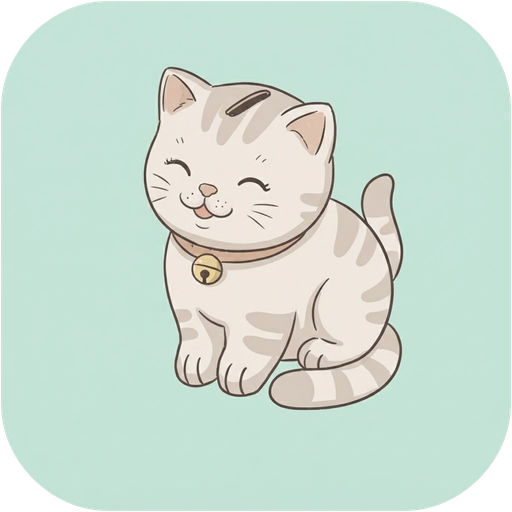
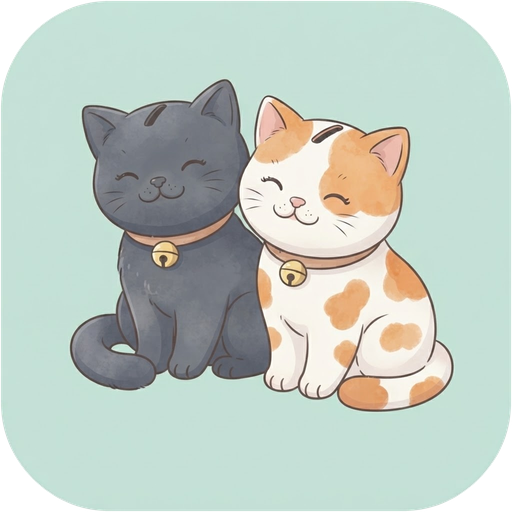
Nuova icona: due gattini (palette invariata)
Claude-Session: https://claude.ai/code/session_01VsjeD3hYDfXAMYg7o4aXLh

diff --git a/public/sw.js b/public/sw.js
@@ -1,6 +1,6 @@
 // Service worker minimale: guscio dell'app disponibile offline.
 // Le chiamate cross-origin (Google Drive / Identity) non vengono MAI intercettate né messe in cache.
-const CACHE = 'moneyduo-shell-v4'
+const CACHE = 'moneyduo-shell-v5'
 
 self.addEventListener('install', (e) => {
   e.waitUntil(caches.open(CACHE).then((c) => c.addAll(['./', './manifest.webmanifest', './icon-192.png'])))

diff --git a/README.md b/README.md
@@ -93,7 +93,7 @@ La notifica push parte **dopo che i dati sono arrivati su Drive** (anche per le 
 **Rimborsi con PayPal.** Ogni membro può indicare il proprio nome **PayPal.Me** (Impostazioni → Famiglia → «Il tuo PayPal»; basta anche incollare il link `paypal.me/…`). Nelle Statistiche, accanto a «Rimborsa», un debito verso chi ha collegato PayPal mostra il pulsante **PayPal**: apre `paypal.me/<nome>/<importo>EUR` con l'importo già impostato e, nell'app, il rimborso già compilato da salvare. Il nome PayPal.Me è visibile a tutta la famiglia (vive nel file su Drive, campo `paypal` del membro).
 Limite: PayPal.Me non permette di preselezionare «Per amici e familiari» da link; quel passaggio si sceglie in PayPal al momento del pagamento (con un conto personale la scelta è proposta da PayPal).
 
-**Icona e stile.** L'icona dell'app (gattino salvadanaio) e la palette derivano dall'immagine scelta: menta, crema e beige, con il marrone caldo del contorno per il testo e un verde-menta scuro come colore principale (chiaro in modalità scura). Tutti i colori del testo rispettano il contrasto minimo 4,5:1. Angoli più morbidi e carattere arrotondato dove il sistema lo offre (iPhone). Le icone (`public/icon-*.png`, `apple-touch-icon.png`, versione adattiva per Android) sono ricavate dall'immagine originale.
+**Icona e stile.** L'icona dell'app (due gattini salvadanaio) e la palette derivano dall'immagine scelta: menta, crema e beige, con il marrone caldo del contorno per il testo e un verde-menta scuro come colore principale (chiaro in modalità scura). Tutti i colori del testo rispettano il contrasto minimo 4,5:1. Angoli più morbidi e carattere arrotondato dove il sistema lo offre (iPhone). Le icone (`public/icon-*.png`, `apple-touch-icon.png`, versione adattiva per Android) sono ricavate dall'immagine originale.
 
 ## Schema del JSON (`schemaVersion: 2`)
 ```jsonc
